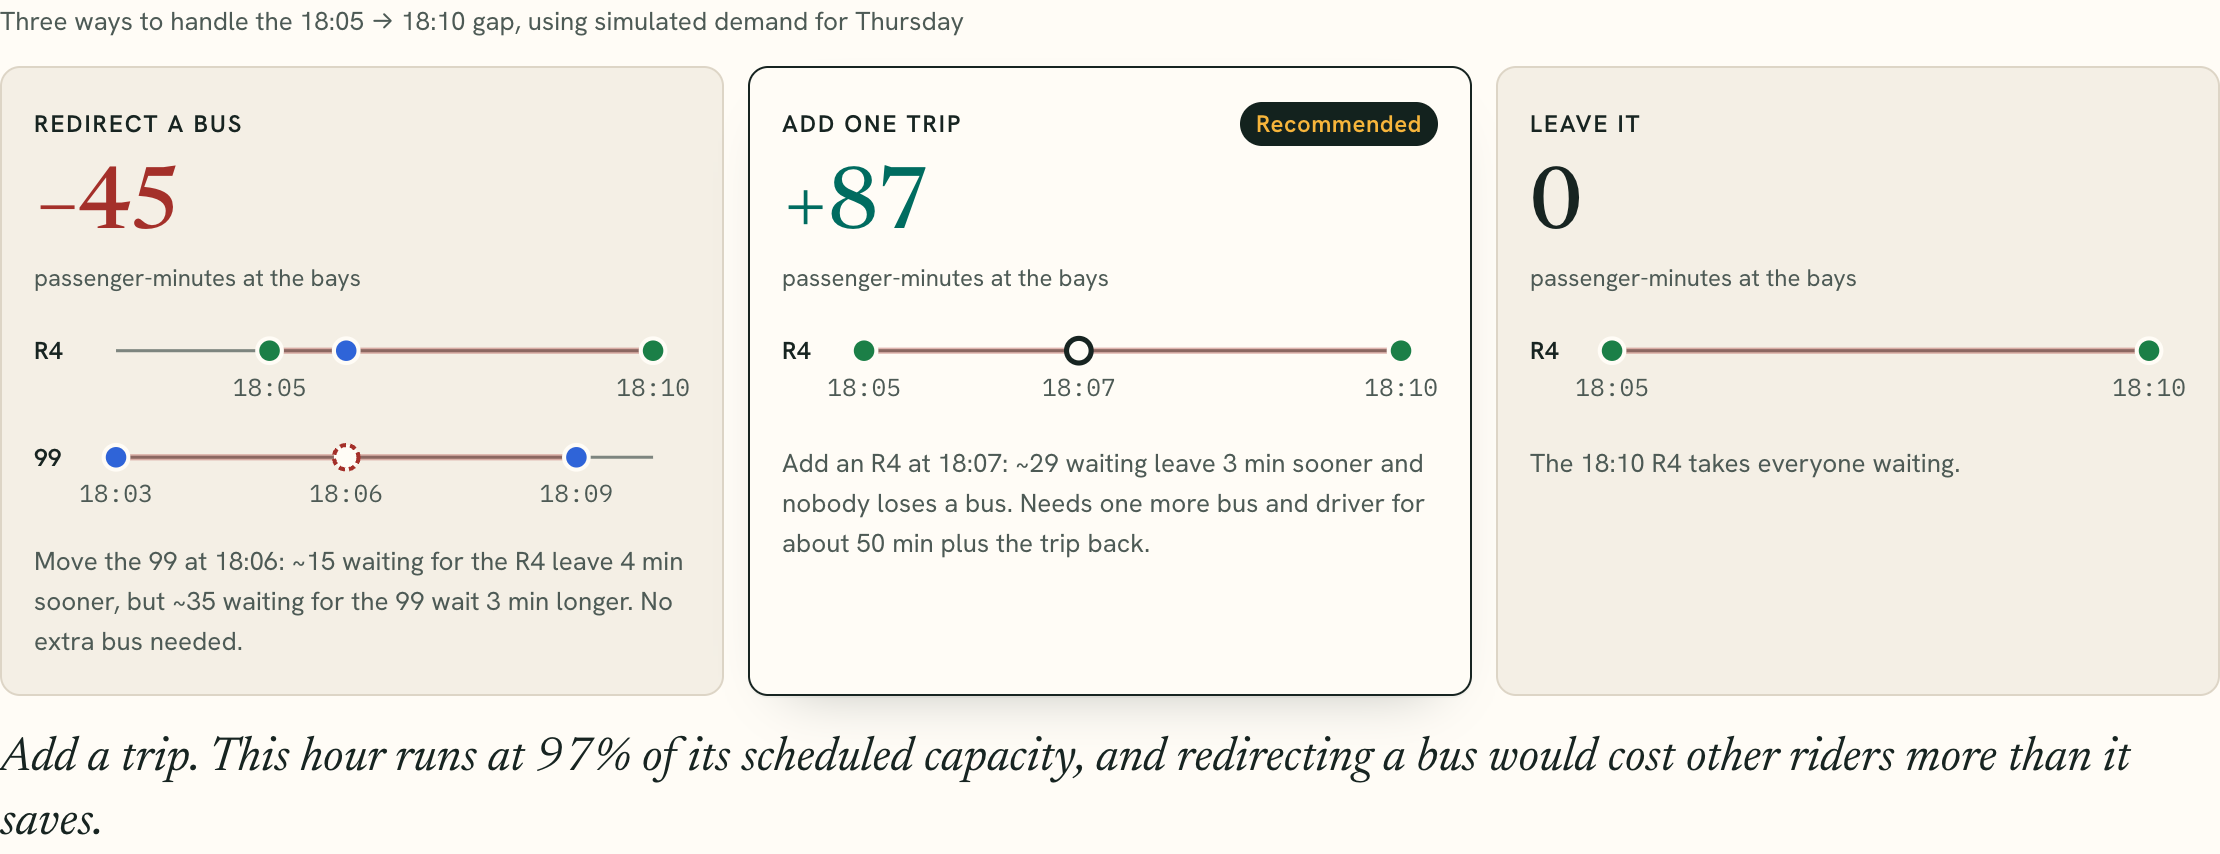
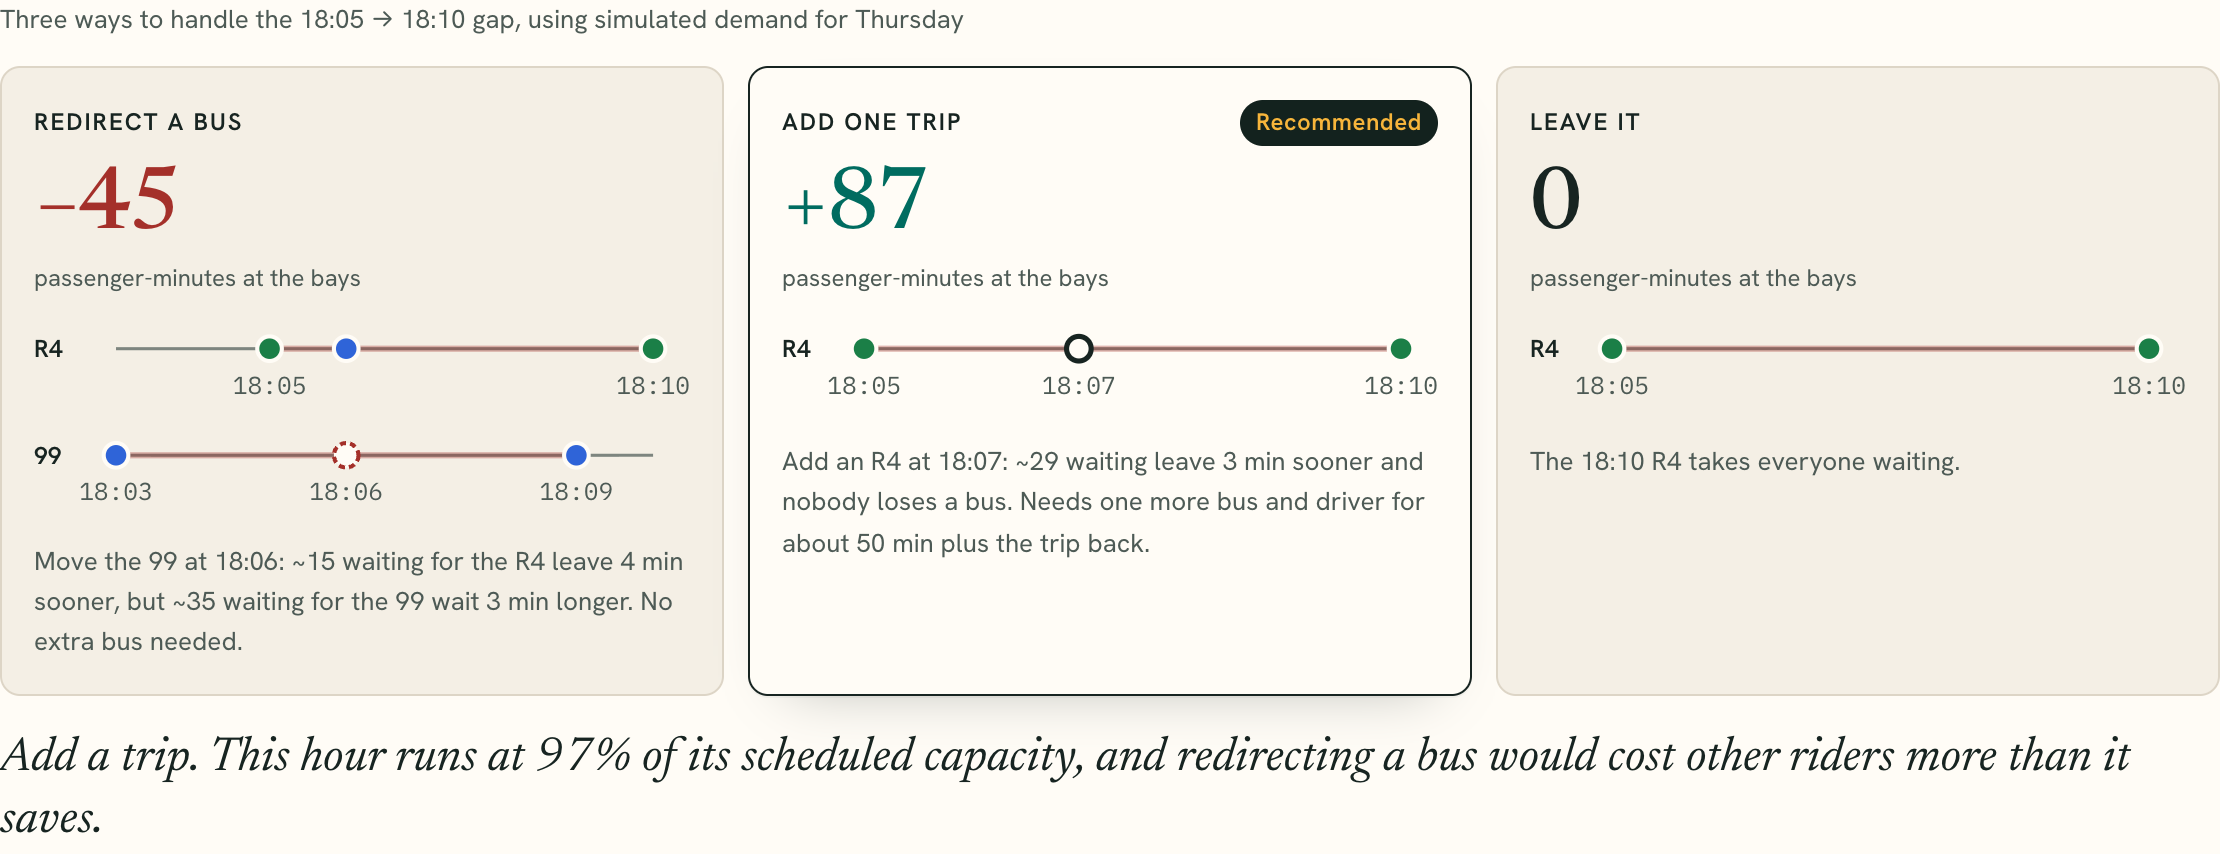
Put the map and bus picker before the decision
Step 3 is now "Which bus could fill the gap?": the example scenarios and
the buses that pass the screen sit above the map, so picking one redraws
its reroute right below, with the line-count check under the map. Step 4,
"How should we handle this gap?", keeps only the redirect / add a trip /
leave it comparison and its verdict. README updated to the new order;
deck map export now crops to the map and reroute cards.

diff --git a/app/app.js b/app/app.js
@@ -673,11 +673,11 @@ function applyQueueExample(which) {
 function renderCandidates() {
   const gap = selectedGap();
   const special = route().serviceType !== "regular";
-  $("candidates-step").textContent = special ? "Route context" : "Fill the gap";
+  $("candidates-step").textContent = special ? "Route context" : "Decide";
   $("candidates-title").textContent = special ? "How can we use this route?" : "How should we handle this gap?";
   $("candidates-description").textContent = special
     ? "Its published timetable and path are available. This app compares city-bus queue scenarios separately."
-    : "Compare redirecting a bus, adding a trip, or leaving it, using simulated student demand. The line counts below start from the same simulation; replace them with counts you observe.";
+    : "Compare redirecting the best bus from step 3, adding a trip, or leaving it alone, using simulated student demand.";
   if (special) {
     state.candidateId = null;
     state.swap = null;
@@ -687,18 +687,26 @@ function renderCandidates() {
       ? "Route 68 connects UBC Exchange with Wesbrook Village. Its historical load and timetable are shown, but this campus shuttle is excluded from swaps with city routes."
       : "N17 has scheduled trips and a mapped path, but no comparable 2025 route-load series in this app. A crowding or bus-swap claim would be unsupported.";
     $("candidates-content").innerHTML = `<div class="no-candidates"><div><strong>${title}</strong><p>${explanation}</p></div></div>`;
+    $("bus-pick").innerHTML = "";
+    $("bus-test").innerHTML = "";
     renderAnswer(null);
     renderMap();
+    syncUrl();
     return;
   }
   const examples = `<div class="queue-examples"><span>Examples from the simulation</span>
     ${Object.entries(QUEUE_EXAMPLES).map(([key, example]) => `<button type="button" data-queue-example="${key}">${escapeHtml(example.label)}</button>`).join("")}
-    <small>Line counts come from a Monte Carlo student simulation and can be changed below. No live queue feed is connected.</small></div>`;
+    <small>Line counts come from a Monte Carlo student simulation and can be changed below the map. No live queue feed is connected.</small></div>`;
   const candidates = queueCandidatesForGap(gap);
   const options = compareOptions(gap, candidates);
-  const comparison = compareMarkup(options);
   renderAnswer(options);
-  $("candidate-count").textContent = `${candidates.length} ${candidates.length === 1 ? "bus to redirect" : "buses to redirect"}`;
+  $("candidate-count").textContent = `${candidates.length} ${candidates.length === 1 ? "bus" : "buses"} could fill it`;
+  // Step 4: the three ways to handle the gap, or why they can't be compared.
+  const noComparison = !gap ? "Choose a departure in step 2 to compare the options for the gap after it."
+    : gap.next.minute - gap.first.minute > MAX_FILLABLE_GAP ? "This is a scheduled service break, not a gap to fill."
+      : "There is no simulated demand for this time, so the options can't be compared.";
+  $("candidates-content").innerHTML = compareMarkup(options) || `<div class="no-candidates"><div><strong>Nothing to compare</strong><p>${noComparison}</p></div></div>`;
+  // Step 3: the buses that could be redirected, above the map; the line-count check below it.
   if (!candidates.length) {
     state.candidateId = null;
     state.swap = null;
@@ -706,7 +714,8 @@ function renderCandidates() {
       : !state.map || !state.duties ? "The route map or vehicle blocks are unavailable."
         : gap.next.minute - gap.first.minute > MAX_FILLABLE_GAP ? "This is a scheduled service break, so the app does not propose borrowing a bus for it."
           : "No nearby route follows a suitable path and fits the bus's published next duty for this gap.";
-    $("candidates-content").innerHTML = `${comparison}${examples}<div class="no-candidates"><div><strong>No screened bus to redirect</strong><p>${message}</p></div></div>`;
+    $("bus-pick").innerHTML = `${examples}<div class="no-candidates"><div><strong>No screened bus to redirect</strong><p>${message}</p></div></div>`;
+    $("bus-test").innerHTML = "";
   } else {
     if (!candidates.some((candidate) => candidate.id === state.candidateId)) {
       state.candidateId = candidates[0].id;
@@ -726,13 +735,14 @@ function renderCandidates() {
       : "No later passenger trip appears in this GTFS vehicle block. Driver and depot duties are still unknown.";
     const cautionNote = selected.cautions.length
       ? `<ul class="queue-cautions">${selected.cautions.map((text) => `<li>${escapeHtml(text)}</li>`).join("")}</ul>` : "";
-    $("candidates-content").innerHTML = `${comparison}${examples}<div class="candidate-grid">${candidates.map((candidate) => `<button class="candidate" type="button" data-candidate="${escapeHtml(candidate.id)}" aria-pressed="${candidate.id === state.candidateId}">
+    $("bus-pick").innerHTML = `${examples}<div class="candidate-grid">${candidates.map((candidate) => `<button class="candidate" type="button" data-candidate="${escapeHtml(candidate.id)}" aria-pressed="${candidate.id === state.candidateId}">
       <span class="candidate-top"><span class="candidate-route" style="--route-color:${routeColor(candidate.donorId)}">${escapeHtml(candidate.donorId)}</span><span><span class="candidate-name">Move the ${escapeHtml(candidate.donorId)} at ${timeLabel(candidate.trip.minute)}</span><span class="candidate-time">${escapeHtml(candidate.trip.bay)} → ${escapeHtml(gap.first.bay)} · ${candidate.distance} m</span></span></span>
       <span class="candidate-divider"></span><span class="candidate-facts"><span>${candidate.cautions.length ? `${candidate.cautions.length} ${candidate.cautions.length === 1 ? "caution" : "cautions"}` : "Clean fit"}</span><span>${candidate.reroute.offKm.toFixed(1)} km off path</span></span>
       ${candidate.simulatedGain === null ? "" : `<span class="candidate-sim ${candidate.simulatedGain < 0 ? "is-negative" : ""}">Simulated: ${candidate.simulatedGain === 0 ? "no wait change"
         : `${candidate.simulatedGain < 0 ? "adds" : "saves"} ${Math.abs(candidate.simulatedGain).toLocaleString()} passenger-min`}</span>`}
-    </button>`).join("")}</div>
-    <div class="queue-workspace">
+    </button>`).join("")}</div>`;
+    $("bus-test").innerHTML = `<div class="queue-workspace">
+      <h3 class="queue-title">Check the move with people waiting</h3>
       <div class="queue-tradeoff"><div><span class="metric-label">Longest wait for the ${escapeHtml(state.route)}</span><strong>${selected.targetBefore} → ${selected.targetAfter} min</strong></div><div><span class="metric-label">Longest wait for the ${escapeHtml(selected.donorId)}</span><strong>${selected.donorBefore} → ${selected.donorAfter} min</strong></div></div>
       <div class="queue-inputs">
         <label>Waiting for ${escapeHtml(state.route)} · ${escapeHtml(gap.first.bay)}<input id="target-queue" type="number" min="0" max="1000" step="1" inputmode="numeric" value="${state.targetQueue ?? ""}" placeholder="Count people" /></label>
@@ -742,7 +752,7 @@ function renderCandidates() {
       <div class="queue-result" id="queue-result" aria-live="polite">${queueResultMarkup(gap, selected)}</div>
       <p class="queue-duty">${dutyNote} This is a timetable screen, not a dispatch authorization.</p>${cautionNote}
     </div>`;
-    $("candidates-content").querySelectorAll("[data-candidate]").forEach((button) => button.addEventListener("click", () => {
+    $("bus-pick").querySelectorAll("[data-candidate]").forEach((button) => button.addEventListener("click", () => {
       if (state.candidateId !== button.dataset.candidate) state.donorQueue = null;
       state.candidateId = button.dataset.candidate;
       if (state.queueSource !== "manual") state.queueSource = null;  // re-simulate for the new bay
@@ -755,11 +765,11 @@ function renderCandidates() {
           : Math.max(0, Math.min(1000, Math.floor(Number(value))));
         state.queueSource = "manual";
         $("queue-result").innerHTML = queueResultMarkup(gap, selected);
-        $("candidates-content").querySelector(".queue-source").textContent = "Your counts. The app can't check them.";
+        $("bus-test").querySelector(".queue-source").textContent = "Your counts. The app can't check them.";
       });
     }
   }
-  $("candidates-content").querySelectorAll("[data-queue-example]").forEach((button) => button.addEventListener("click", () => applyQueueExample(button.dataset.queueExample)));
+  $("bus-pick").querySelectorAll("[data-queue-example]").forEach((button) => button.addEventListener("click", () => applyQueueExample(button.dataset.queueExample)));
   renderMap();
   syncUrl();
 }
@@ -1073,8 +1083,8 @@ function renderMap() {
   renderRerouteSummary(gap, swap, reroute);
   $("map-panel").classList.toggle("has-swap", Boolean(reroute));
   const special = route().serviceType !== "regular";
-  $("map-step").textContent = special ? "See the route" : "See the reroute";
-  $("map-title").textContent = special ? `Where does the ${state.route} go?` : "Where would the borrowed bus go?";
+  $("map-step").textContent = special ? "See the route" : "Pick a bus";
+  $("map-title").textContent = special ? `Where does the ${state.route} go?` : "Which bus could fill the gap?";
   $("map-subtitle").textContent = reroute
     ? `The borrowed bus normally runs the ${swap.donorId} (dashed black line). To cover the ${state.route} gap at ${timeLabel(swap.trip.minute)}, it would follow the ${state.route} line instead.`
     : special ? `Published route geometry for ${state.route} from UBC Exchange. No reassignment scenario is shown for this service.`

diff --git a/index.html b/index.html
@@ -73,27 +73,16 @@
             </section>
           </div>
 
-          <section class="panel candidates-panel" id="gap-options" aria-labelledby="candidates-title">
-            <div class="candidates-heading">
-              <div>
-                <div class="section-topline"><span class="step">3</span><span id="candidates-step">Fill the gap</span></div>
-                <h2 id="candidates-title">How should we handle this gap?</h2>
-                <p id="candidates-description">Compare redirecting a bus, adding a trip, or leaving it, using simulated student demand. The line counts below start from the same simulation; replace them with counts you observe.</p>
-              </div>
-              <span class="candidate-count" id="candidate-count"></span>
-            </div>
-            <div id="candidates-content"></div>
-          </section>
-
           <section class="panel map-panel" id="map-panel" aria-labelledby="map-title" hidden>
             <div class="candidates-heading">
               <div>
-                <div class="section-topline"><span class="step">4</span><span id="map-step">See the reroute</span></div>
-                <h2 id="map-title">Where would the borrowed bus go?</h2>
+                <div class="section-topline"><span class="step">3</span><span id="map-step">Pick a bus</span></div>
+                <h2 id="map-title">Which bus could fill the gap?</h2>
                 <p id="map-subtitle"></p>
               </div>
-              <span class="source-tag">2026 GTFS route shapes</span>
+              <span class="candidate-count" id="candidate-count"></span>
             </div>
+            <div id="bus-pick" class="bus-pick"></div>
             <div class="map-body">
               <div id="route-map" class="route-map"></div>
               <aside id="reroute" class="reroute" aria-live="polite"></aside>
@@ -104,7 +93,21 @@
               <span class="donor-only"><i class="key-dot"></i>Borrowed bus on the covered trip</span>
               <span><i class="key-line is-rail"></i>SkyTrain</span>
               <span><i class="key-line is-network"></i>Other bus routes</span>
+              <span class="legend-source">Route shapes: 2026 GTFS</span>
             </div>
+            <div id="bus-test"></div>
+          </section>
+
+          <section class="panel candidates-panel" id="gap-options" aria-labelledby="candidates-title">
+            <div class="candidates-heading">
+              <div>
+                <div class="section-topline"><span class="step">4</span><span id="candidates-step">Decide</span></div>
+                <h2 id="candidates-title">How should we handle this gap?</h2>
+                <p id="candidates-description">Compare redirecting the best bus from step 3, adding a trip, or leaving it alone, using simulated student demand.</p>
+              </div>
+              <span class="source-tag">simulated student demand</span>
+            </div>
+            <div id="candidates-content"></div>
           </section>
         </div>
       </main>

diff --git a/app/styles.css b/app/styles.css
@@ -283,7 +283,7 @@ h2 { font-size: var(--t-2xl); }
 
 /* ── Step 3: options, buses to redirect, line counts ──────────────────────────────────── */
 .metric-label { display: block; color: var(--ink-2); font-size: var(--t-sm); }
-.compare { margin-bottom: var(--s-6); }
+.compare { margin: 0; }
 .compare-grid { display: grid; grid-template-columns: repeat(3, minmax(0, 1fr)); gap: var(--s-3); margin-top: var(--s-3); }
 .compare-card { padding: var(--s-4); border: var(--hair) solid var(--rule); border-radius: var(--r-md); background: var(--paper); }
 .compare-card.is-best { border-color: var(--ink); background: var(--surface); box-shadow: var(--shadow); }
@@ -328,7 +328,9 @@ h2 { font-size: var(--t-2xl); }
 .no-candidates strong { font-size: var(--t-md); }
 .no-candidates p { margin-top: var(--s-1); color: var(--ink-2); font-size: var(--t-sm); }
 
+.bus-pick { margin-bottom: var(--s-5); }
 .queue-workspace { margin-top: var(--s-5); padding: var(--s-5); border-radius: var(--r-md); background: var(--paper); }
+.queue-title { margin-bottom: var(--s-4); font-size: var(--t-xl); }
 .queue-tradeoff { display: grid; grid-template-columns: 1fr 1fr; gap: var(--s-4); }
 .queue-tradeoff strong { display: block; margin-top: var(--s-1); font: 500 var(--t-lg) var(--font-data); }
 .queue-tradeoff > div:last-child strong { color: var(--loss); }
@@ -419,6 +421,7 @@ h2 { font-size: var(--t-2xl); }
 .map-legend-routes { display: flex; flex-wrap: wrap; gap: var(--s-2) var(--s-4); }
 .map-legend span { display: inline-flex; align-items: center; gap: var(--s-2); }
 .map-legend .donor-only { display: none; }
+.map-legend .legend-source { margin-left: auto; }
 .map-panel.has-swap .map-legend .donor-only { display: inline-flex; }
 .key-line { display: inline-block; width: 22px; height: 4px; border-radius: var(--r-pill); }
 .key-line.is-donor { height: 0; border-top: 3px dashed var(--ink); border-radius: 0; }

diff --git a/app/README.md b/app/README.md
@@ -6,9 +6,9 @@ From the repository root, run `python3 -m http.server 5173` and open `http://loc
 
 The page has 12 selectable routes from UBC Exchange. Ten regular routes (99, R4, 49, 9, 44, 84, 4, 14, 25, 33) support the queue comparison. Route 68 is a [UBC campus shuttle](https://planning.ubc.ca/transportation/transit) and N17 has timetable and map context only. Neither is offered as a city-route donor. Queue counts in step 03 start from a **Monte Carlo student-demand simulation**; they are editable estimates, not observations.
 
-1. Pick a route. For the 10 regular routes, step 01 is a **line chart by hour**. It plots simulated students leaving UBC Exchange on that route each hour (Mon–Fri average, or one weekday) from the team's Monte Carlo model. The dashed line is the capacity of the buses the 2026 timetable runs each hour: the buses scheduled, times the capacity per bus implied by TransLink's 2025 TSPR loads (average peak load ÷ load factor). Each dot is coloured by how full that hour is: red overloaded (100%+), orange crowded (84–99%), yellow moderate (60–83%), green lighter (under 60%). Clicking an hour jumps steps 02–03 to it; the shaded band is the TransLink time block it falls in. The demand is simulated and counts students only, not all riders. Routes 68 and N17 have no simulated demand, so they keep the time-block bar chart of fall 2025 TSPR **average peak passengers on board**.
-2. Pick a time block, hour, and departure on the 2026-09-28 TransLink GTFS timetable. Step 02 shows the gap to the next departure. The historical load and timetable are from different years and are not matched observations.
-3. Step 03 searches other regular routes for a departure inside a gap of 4–60 minutes. **Hard rules** decide whether the move is possible at all:
+1. Pick a route. For the 10 regular routes, step 1 is a **line chart by hour**. It plots simulated students leaving UBC Exchange on that route each hour (Mon–Fri average, or one weekday) from the team's Monte Carlo model. The dashed line is the capacity of the buses the 2026 timetable runs each hour: the buses scheduled, times the capacity per bus implied by TransLink's 2025 TSPR loads (average peak load ÷ load factor). Each dot is coloured by how full that hour is: red overloaded (100%+), orange crowded (84–99%), yellow moderate (60–83%), green lighter (under 60%). Clicking an hour jumps steps 02–03 to it; the shaded band is the TransLink time block it falls in. The demand is simulated and counts students only, not all riders. Routes 68 and N17 have no simulated demand, so they keep the time-block bar chart of fall 2025 TSPR **average peak passengers on board**.
+2. Pick a time block, hour, and departure on the 2026-09-28 TransLink GTFS timetable. Step 2 shows the gap to the next departure. The historical load and timetable are from different years and are not matched observations.
+3. Step 3, **Which bus could fill the gap?**, searches other regular routes for a departure inside a gap of 4–60 minutes. **Hard rules** decide whether the move is possible at all:
    - the bus leaves from a bay within 250 m straight-line of the target bay
    - its previous GTFS vehicle-block trip ends within 500 m of that bay at least five minutes earlier, or this is its first trip of the day
    - electric trolley buses (4, 9, 14) only cover other trolley routes
@@ -22,19 +22,19 @@ The page has 12 selectable routes from UBC Exchange. Ten regular routes (99, R4,
    - its own route averaged 84%+ peak load in that block
 
    Options are ranked by fewest cautions, then the largest simulated wait saving, then the most even target gap, and each route appears at most once. When the app picks a departure for you, it chooses the gap whose best option has the fewest cautions and then saves the most simulated time. All thresholds are in `SCREEN` in `app.js`. These are screening rules for the demo, not TransLink operating rules.
-4. Step 03 opens by comparing **three ways to handle the gap**, using the simulated line counts described in 5 for the chosen weekday. The score is bay-only passenger-minutes:
+4. Picking a bus redraws the map in step 3: the donor's usual route and the route it would cover, with the bay change and destination difference. It shows the next published trip when one appears in the GTFS block. A blank next trip does not prove the bus or driver is free; depot movement and shifts are unknown.
+5. Below the map, step 3 fills in how many people are **currently waiting** at the two bays. Each count is the route's simulated students leaving UBC per hour on the weekday chosen in step 01 (or the Mon–Fri average), spread evenly over the hour, from that route's previous departure to the rerouted departure. Type over either count to use your own. The displayed bay-only wait calculation is `target queue × (next target departure − rerouted departure) − donor queue × (next donor departure − removed donor departure)`. A positive result means less waiting for those queues; a negative result means more. Moving a donor bus changes its own maximum departure gap, which is shown alongside the target gap. Changing the route, time or departure returns to simulated counts.
+6. Step 4, **How should we handle this gap?**, compares **three ways to handle the gap**, using the simulated line counts described in 5 for the chosen weekday. The score is bay-only passenger-minutes:
    - **redirect** the best screened bus
    - **add one trip** at the middle of the gap
    - **leave it**
 
    It recommends the first of these that holds:
    1. Redirect, if that saves waiting.
-   2. Add a trip, if the hour runs at 84%+ of its scheduled capacity (the step 01 chart).
+   2. Add a trip, if the hour runs at 84%+ of its scheduled capacity (the step 1 chart).
    3. Leave it.
 
    An added trip always helps riders at least as much as a redirect, but it needs a spare bus and driver.
-5. Below the comparison, step 03 fills in how many people are **currently waiting** at the two bays. Each count is the route's simulated students leaving UBC per hour on the weekday chosen in step 01 (or the Mon–Fri average), spread evenly over the hour, from that route's previous departure to the rerouted departure. Type over either count to use your own. The displayed bay-only wait calculation is `target queue × (next target departure − rerouted departure) − donor queue × (next donor departure − removed donor departure)`. A positive result means less waiting for those queues; a negative result means more. Moving a donor bus changes its own maximum departure gap, which is shown alongside the target gap. Changing the route, time or departure returns to simulated counts.
-6. Step 04 maps the donor's usual route and the route it would cover, with the bay change and destination difference. It shows the next published trip when one appears in the GTFS block. A blank next trip does not prove the bus or driver is free; depot movement and shifts are unknown.
 
 **Shareable views.** The address bar always describes the current view, for example `?route=R4&day=thu&hour=18&trip=…&bus=…`, so a slide or a message can link straight to it. With no parameters, the page opens on the crunch: R4, Thursday, 18:00. Figures and chart exports for the deck are in [`presentation/`](../presentation/key-numbers.md).
 
